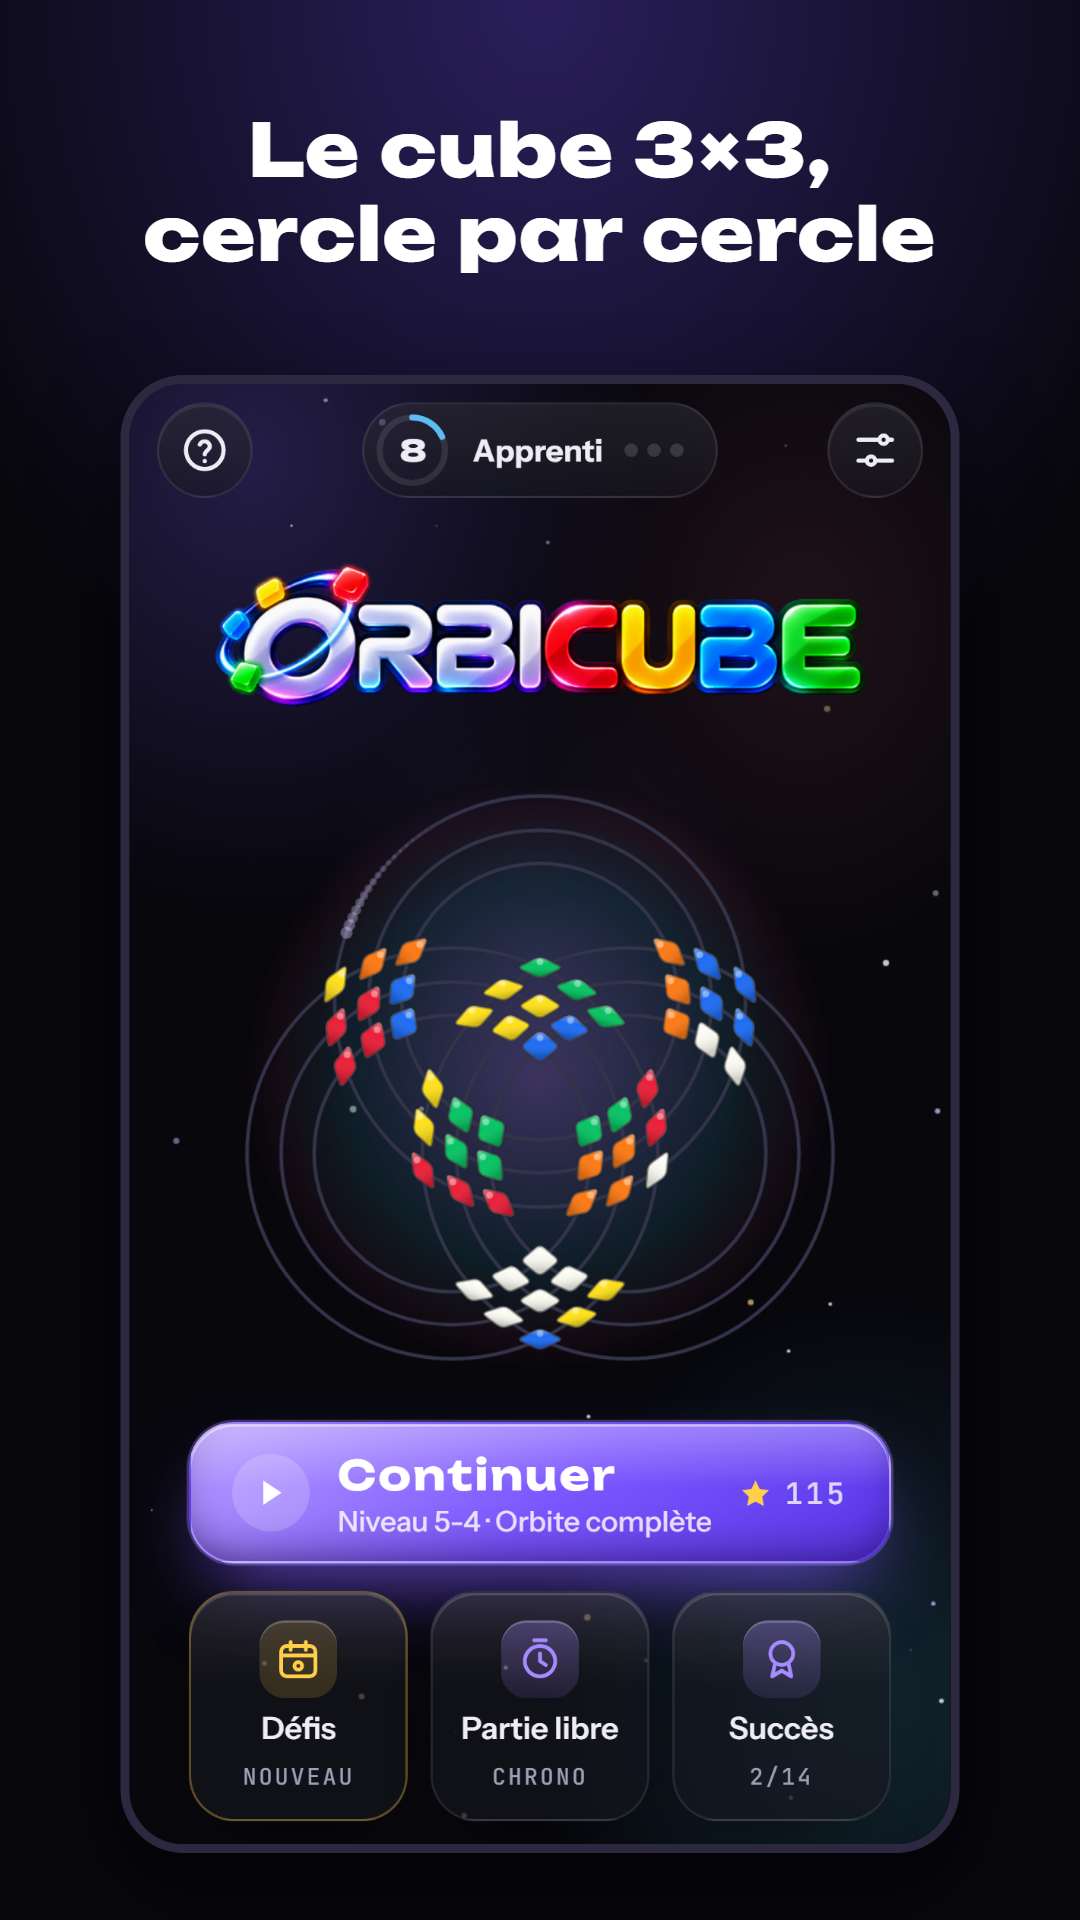
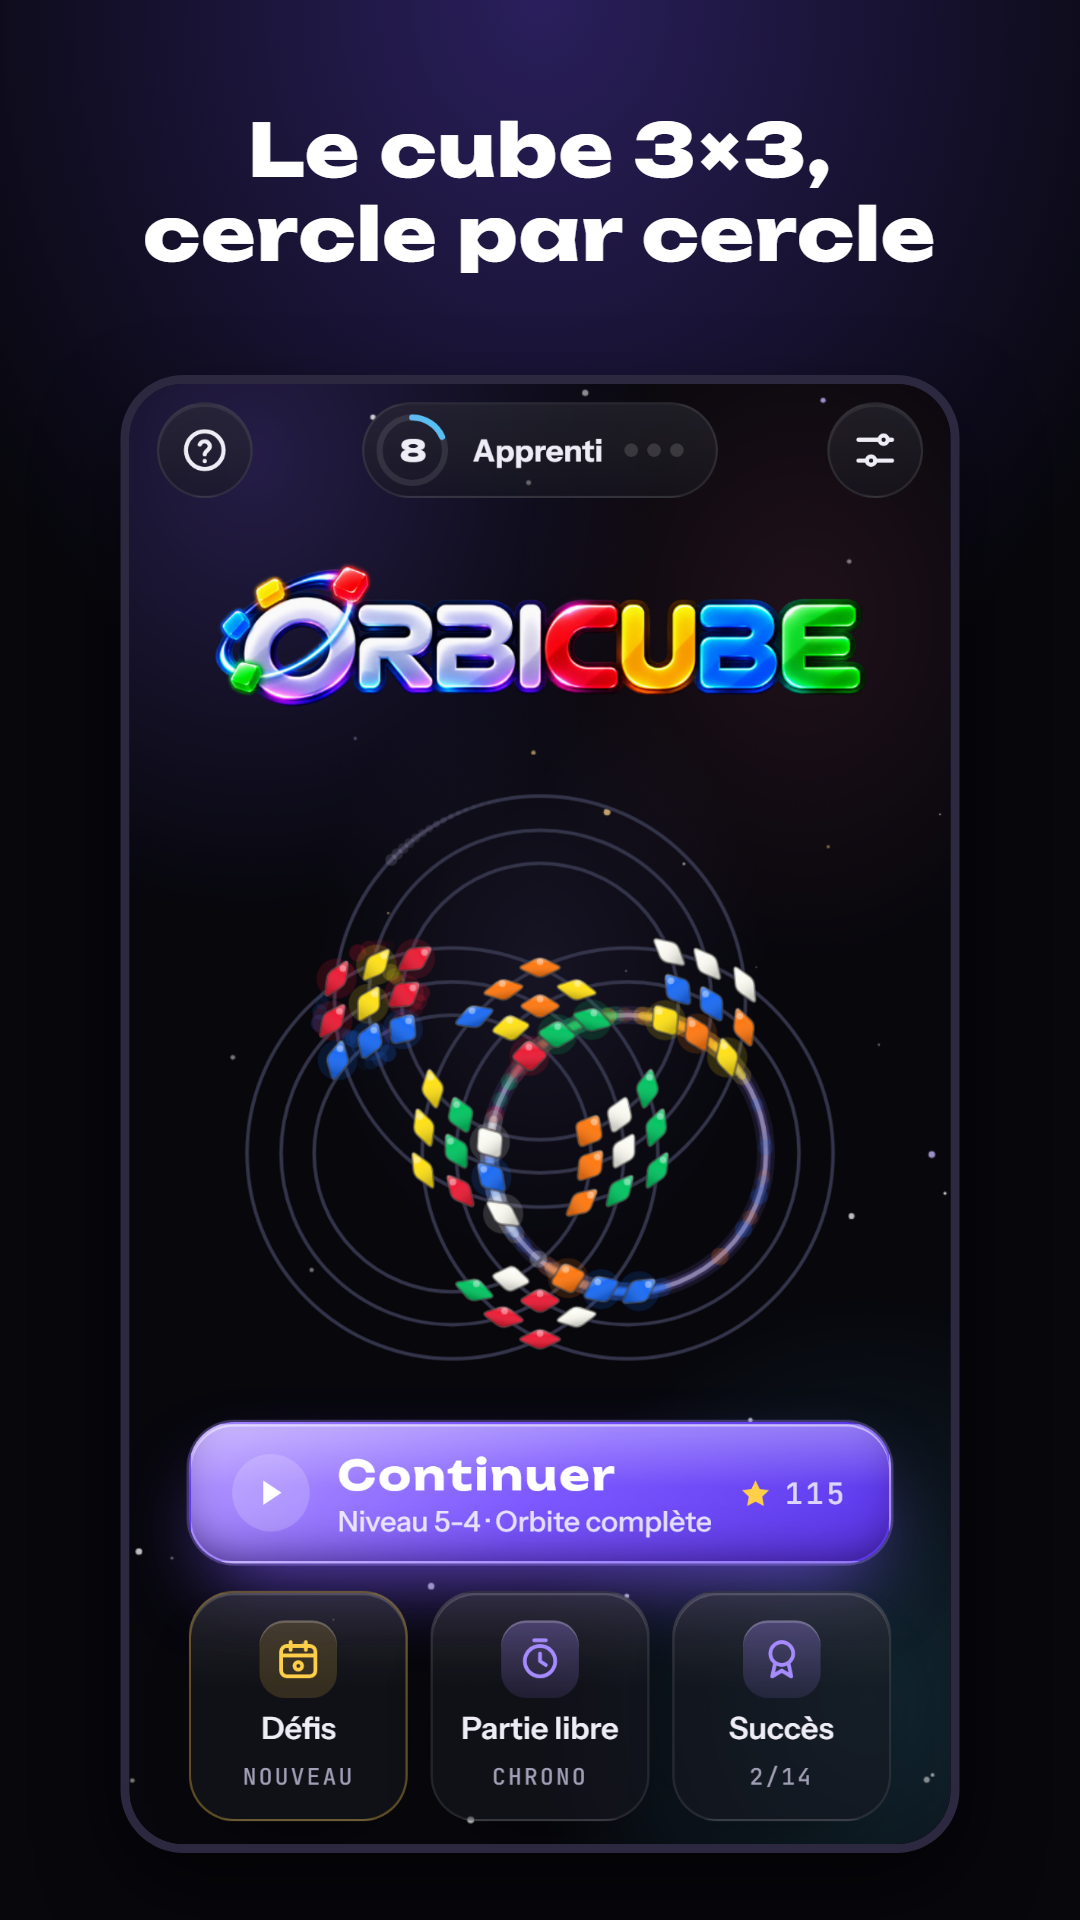
Orbicube : retire le halo central derrière l'orbicube d'accueil
Le halo ambiant ajouté en Phase 1 éclairait trop le centre et noyait les pièces
(retour client). Suppression complète ; le fond orbital statique et le reste du
gloss restent. Captures stores régénérées (accueil changé), sw.js V bumpé.
Vérificateur + testeur (3 téléphones x 5 langues) verts.

Claude-Session: https://claude.ai/code/session_01JayZkQoU3qtqRN3StiDb8N

Changed region(s): [[0.275, 0.4375, 0.7333, 0.7188], [0.6722, 0.625, 0.7028, 0.6562]]

diff --git a/orbicube/www/index.html b/orbicube/www/index.html
@@ -465,13 +465,6 @@ body{background:
   radial-gradient(70% 45% at 15% 5%,rgba(122,92,240,.26),rgba(122,92,240,0) 70%),
   radial-gradient(60% 40% at 90% 90%,rgba(76,201,240,.16),rgba(76,201,240,0) 70%),
   radial-gradient(50% 35% at 82% 16%,rgba(255,107,157,.10),rgba(255,107,157,0) 70%),var(--nuit)}
-/* halo ambiant derrière l'orbicube de l'accueil : un seul petit élément, pulsation lente (écho de la
-   « lueur » du nom), transform+opacity composités — pas de flou recalculé */
-.logoboite{position:relative}
-.logoboite::before{content:"";position:absolute;inset:0;margin:auto;width:76%;aspect-ratio:1;border-radius:50%;z-index:-1;
-  background:radial-gradient(circle,rgba(165,139,255,.30),rgba(76,201,240,.12) 46%,rgba(255,107,157,.06) 62%,transparent 72%);
-  animation:halo-logo 7s ease-in-out infinite}
-@keyframes halo-logo{0%,100%{opacity:.7;transform:scale(.95)}50%{opacity:1;transform:scale(1.05)}}
 /* gloss : un éclat spéculaire en haut des surfaces bombées + un filet néon sur le bouton principal.
    Les reflets sont des couches de dégradé dans le background (pas de pseudo qui recouvrirait le texte) */
 .bouton.principal{background:

diff --git a/orbicube/www/sw.js b/orbicube/www/sw.js
@@ -1,6 +1,6 @@
 // Version web (PWA) : tout le jeu est mis en cache pour se jouer hors ligne.
 // Incrémenter V à chaque publication, sinon les joueurs gardent l'ancienne version.
-var V = "orbicube-v46";
+var V = "orbicube-v47";
 var FICHIERS = ["./", "index.html", "config.js", "natif.js", "langues.js", "manifest.webmanifest", "confidentialite.html", "logo-titre.png",
   "icones/favicon.png", "icones/apple-touch-icon.png", "icones/icon-192.png", "icones/icon-512.png", "icones/icon-maskable-512.png",
   "polices/polices.css", "polices/Unbounded-normal-700.woff2", "polices/Unbounded-normal-800.woff2",
